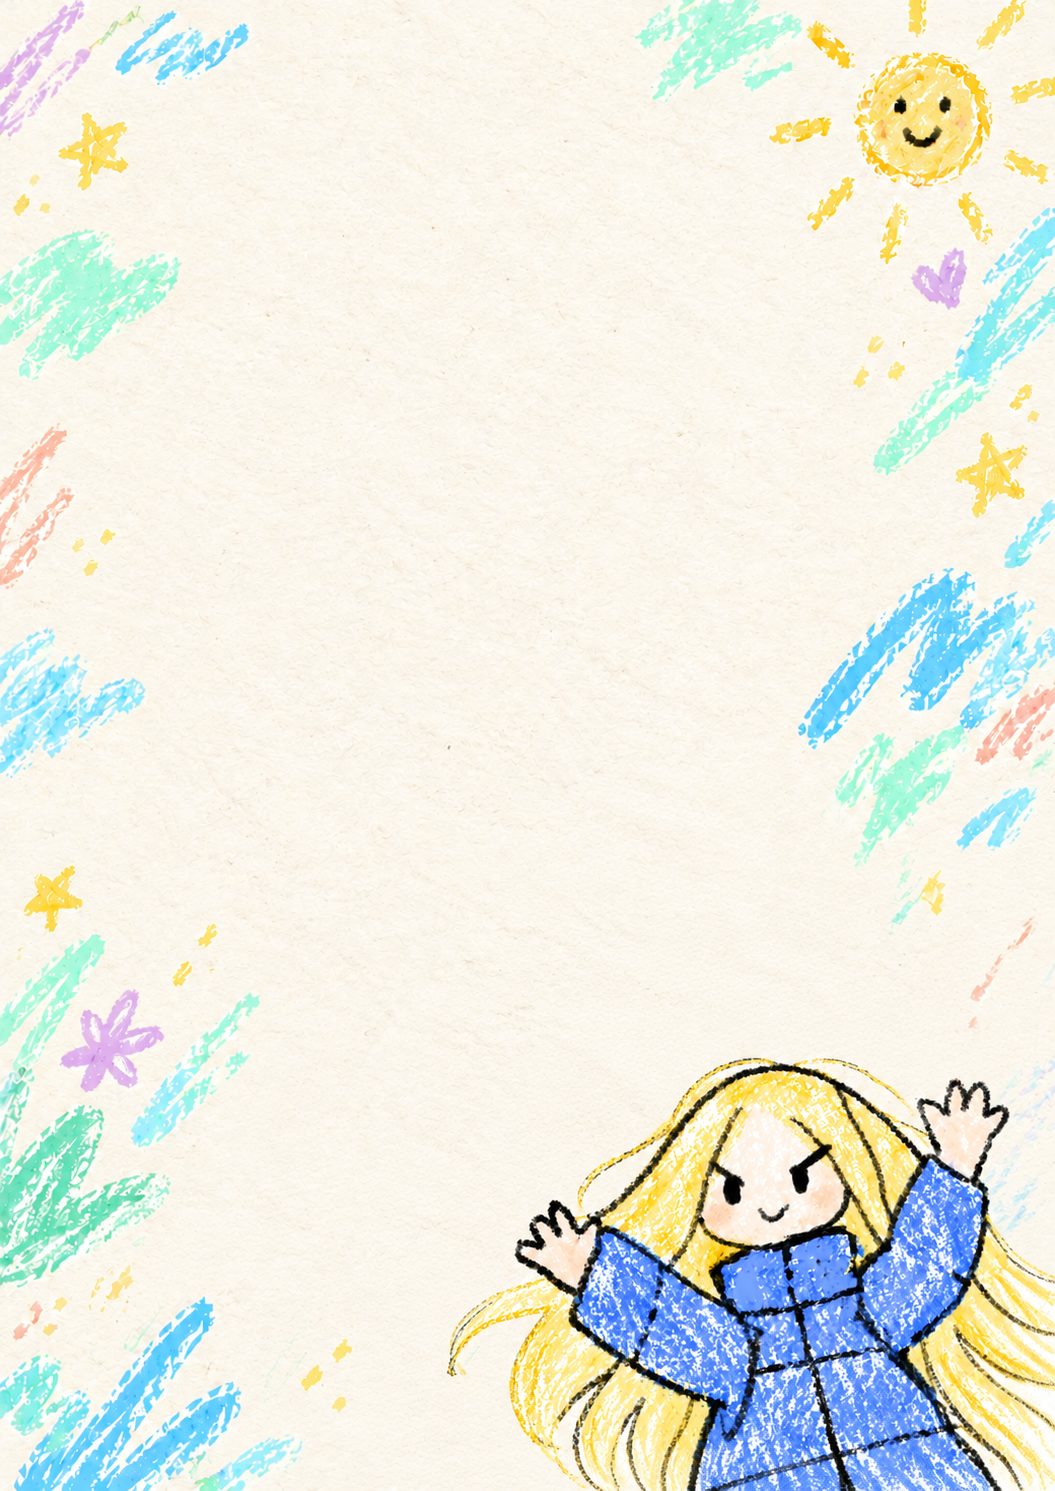
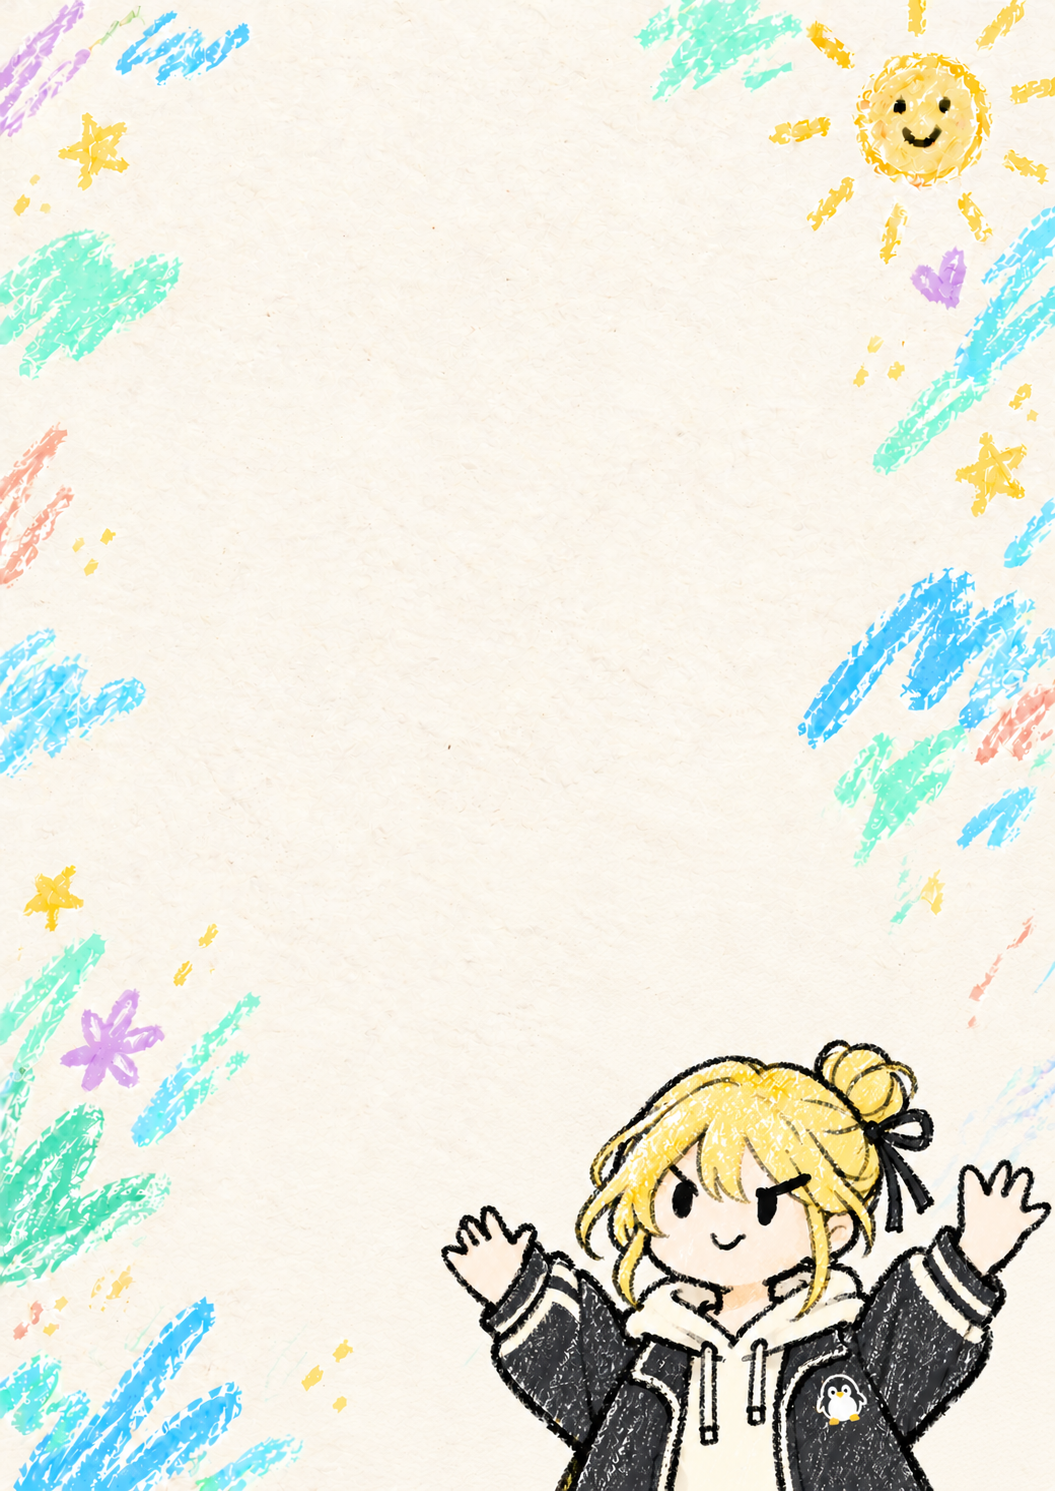
style(pdf): 替换封面女孩并清理多余发束
按参考图替换封面人物，去掉右下角多余的黄色发束。
同步封面资源说明和生成提示词。

diff --git a/agents/src/utils/pdf_templates/assets/PROMPTS.md b/agents/src/utils/pdf_templates/assets/PROMPTS.md
@@ -2,10 +2,37 @@
 
 - Tool: built-in `imagegen`.
 - Saved asset: [finex-crayon-cover.png](finex-crayon-cover.png), RGB, 1055 × 1491 px.
-- Reference: user-supplied drawing of a blonde cartoon girl in a blue puffy coat,
-  with raised hands, thick black outlines, and wax-crayon texture.
+- Current reference: user-supplied drawing of a blonde cartoon girl with a high
+  bun and black bow, a charcoal-and-cream hooded jacket with a penguin patch,
+  raised hands, thick black outlines, and wax-crayon texture.
 - Use: full-page Eisvogel cover background. Keep report text in LaTeX so company
   names, dates and stock codes remain selectable and editable.
+
+## Current edit prompt: remove stray lower-right hair (2026-11-01)
+
+Tool: built-in `imagegen`. Edit target: the reference-character cover below.
+Detail reference: the user's crop identifying the unwanted yellow hair wedge
+below the raised sleeve at the lower right. The saved asset remains RGB,
+1055 × 1491 px.
+
+Use case: precise-object-edit.
+Input image 1: EDIT TARGET, the full existing A4 portrait crayon report-cover background.
+Input image 2: DETAIL REFERENCE identifying the unwanted tuft ONLY; do not paste this crop into the image.
+Make one tiny cleanup: remove the stray triangular GOLD/YELLOW LONG HAIR tuft sticking out from behind the girl's charcoal jacket at the very bottom right, beneath her viewer-right raised elbow. In the full canvas this is the diagonal yellow wedge outside the jacket around 87%–96% of page width, 94%–100% of page height. Remove this entire yellow wedge AND its stray dark diagonal hair-contour lines reaching the bottom edge. Fill ONLY that small area with seamless matching warm ivory textured paper, continuous with the surrounding background. The girl has her hair in a bun and must have no trailing long hair sticking out below her jacket.
+Keep the actual black sleeve, jacket side/hem outline, penguin patch, cream hoodie, both hands, her face, legitimate cheek-length blonde locks, blonde bun, black bow, pose, size and placement EXACTLY unchanged. Preserve all other image content as closely as possible, including the smiling sun and edge scribbles, blank typography area, 1055 × 1491 pixel A4 portrait canvas, coarse crayon texture and warm paper color. Do not redraw or move the girl. Do not remove any legitimate blonde hair around her head. Do not add content. No text, watermark or border. Opaque background.
+
+## Earlier edit prompt: reference character replacement (2026-11-01)
+
+Tool: built-in `imagegen`. Edit target: the previous compact cover. Character
+reference: the user's blonde bun-haired girl in a black-and-cream penguin jacket.
+The saved asset remains RGB, 1055 × 1491 px, with no generated report text.
+
+Use case: precise-object-edit.
+Asset type: the existing full-page A4 portrait background for FINEX PDF reports.
+Input image 1 (finex-crayon-cover.png): EDIT TARGET. Preserve this entire warm ivory paper cover, its canvas proportions, quiet upper and left-center typography space, tiny smiling sun at upper right, and sparse mint, sky blue, peach, lilac and yellow crayon edge doodles. Replace ONLY the girl at the bottom right.
+Input image 2 (codex-clipboard reference): CHARACTER REFERENCE. Replace the old long-haired blue-coat girl with this specific recognizable cute blonde girl: golden blonde hair swept into a high messy bun on her right side with a big BLACK ribbon/bow, swept bangs and loose cheek-length locks, very simple large solid black expressive oval eyes with thick slightly angled lashes, tiny curved smiling mouth, peach face; a CHARCOAL BLACK oversized jacket with CREAM hood, front panels and sleeve stripes, black drawstrings, and the small black-white penguin patch with yellow beak and feet on her left chest (viewer right). Both open hands are raised outwards in welcome. Retain the reference's childlike proportions, face and friendly pose, coarse wax-crayon/oil-pastel texture, uneven thick black outlines, broken pigment and white paper flecks.
+Composition constraints: keep the replacement girl's complete character group the SAME modest visual footprint as the existing cover's girl, occupying only the bottom 28–30% of page height and rightmost approximately 55% of page width. Highest hair/bun and hands start at approximately 71% down the page. Anchor to bottom right, bottom of jacket naturally cropped at page edge. Both raised hands and hair bun must remain visible, with a small margin at right. Integrate her into the warm ivory page without rectangular photo edges or sticker outlines. Do NOT copy the reference's cyan background, rounded rectangle, border, or any text. Do not carry over the old blue coat or long trailing hair. Repaint the old girl's silhouette as matching cream paper where necessary.
+Keep EVERYTHING ELSE on image 1 visually unchanged as closely as possible. No new decorations. No typography, text, letters, numbers, logos or watermark. Opaque warm paper background. Preserve A4 portrait proportions.
 
 ## Original generation prompt
 
@@ -17,7 +44,7 @@ Tool: built-in `imagegen`, editing the original generated cover asset.
 
 Edit this existing A4 portrait crayon report-cover background with ONE targeted composition change: make the existing blonde girl in the blue puffy coat SLIGHTLY SMALLER, about 82% of her current linear size. Scale her complete character group together, including all blonde hair, both raised hands, her face and coat; preserve her identity, welcoming pose, simple expressive black eyes, smile, colors and wax-crayon texture. Keep her anchored to the LOWER RIGHT and keep the lower coat naturally cropped by the bottom edge. Give her a little more breathing room at the right edge, around 2% of page width. Her head/hands should start noticeably LOWER than in the input, so the character occupies about the lower 40–43% of page height rather than almost the lower half, and leaves more ivory paper visible between the title area and the character. This is a modest size reduction, not a tiny mascot or a drastic redesign. Inpaint the space vacated by the old larger girl with matching warm ivory paper grain and the same sparse edge crayon strokes. Preserve the overall A4 portrait canvas, warm paper color, coarse grain, existing smiling sun at the upper right, the mint/blue/yellow/peach/lilac edge scribbles and stars, and the large blank upper/left-middle area reserved for typography. Keep existing border doodles in their current positions as closely as possible. Do not resize the entire page artwork or zoom out the whole image. Do not change the girl's design or introduce new subjects. No text, letters, numbers, logo, watermark, border or frame.
 
-## Final edit prompt: compact character
+## Earlier edit prompt: compact character
 
 Tool: built-in `imagegen`, editing the previous cover asset. Character target:
 75% of previous linear size, anchored at lower right, about the bottom 28–30% of page height.

diff --git a/agents/src/utils/pdf_templates/README.md b/agents/src/utils/pdf_templates/README.md
@@ -21,8 +21,10 @@ labeled lists in fundamentals, valuation and recommendations become two-column
 tables. Unstructured lists retain their original form; no report facts are added.
 
 `assets/finex-crayon-cover.png` is the full-page crayon illustration derived from
-the user's reference. It is a required, repository-local runtime asset. The
-renderer passes its absolute path as an Eisvogel template variable so a report
+the user's reference: a blonde girl with a high bun, black bow, and a
+charcoal-and-cream penguin jacket, waving from the lower right. It is a required,
+repository-local runtime asset. The renderer passes its absolute path as an
+Eisvogel template variable so a report
 can live in any directory without losing its background. Text is typeset on top
 of the image, rather than baked into the bitmap. See [the asset prompt](assets/PROMPTS.md).
 Report generation itself does not invoke an image model.
